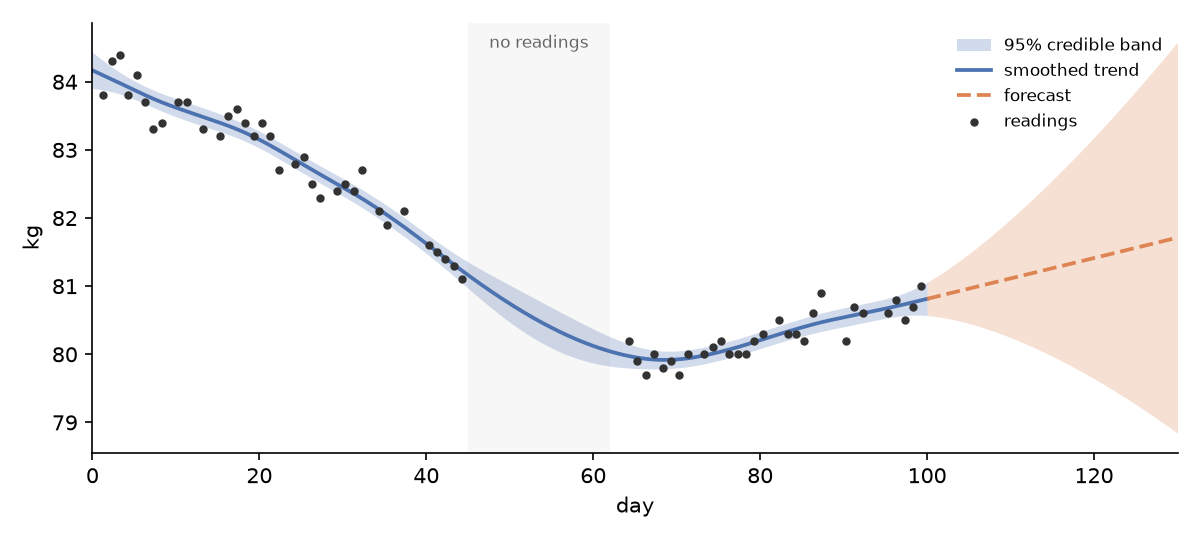
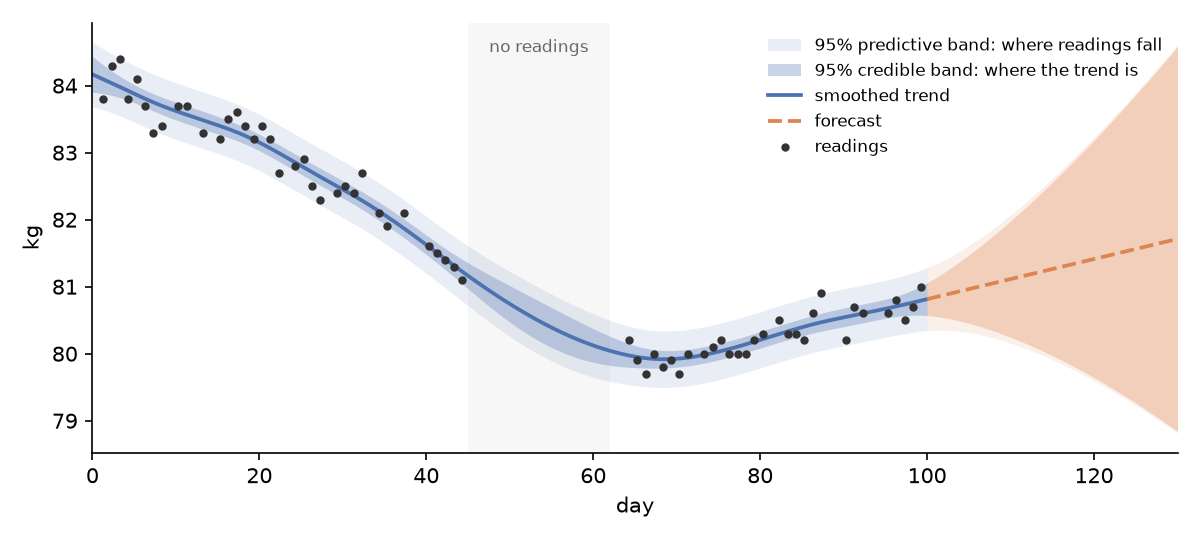
Show the predictive band beside the credible band
The README figure draws the 95% predictive band, where readings fall, as a
wide light band around the darker credible band, for the trend and the
forecast. The README usage and Getting started list predictiveBand() next
to credibleBand().

diff --git a/tool/figure/figure.dart b/tool/figure/figure.dart
@@ -1,5 +1,5 @@
 // Writes the data behind doc/images/trend.png: noisy readings with a gap, the
-// smoothed trend with its credible band, and a forecast.
+// smoothed trend with its credible and predictive bands, and a forecast.
 //
 //   dart run tool/figure/figure.dart > /tmp/trend.csv
 //   uv run --with matplotlib tool/figure/plot.py /tmp/trend.csv doc/images/trend.png
@@ -36,24 +36,27 @@ void main() {
   final grid = [for (var t = 0.0; t <= 100; t += 0.25) t];
   final posterior = fitted.model.smooth(data, grid: grid);
   final band = posterior.credibleBand();
+  final spread = posterior.predictiveBand();
   final horizon = [for (var t = 100.0; t <= 130; t += 0.25) t];
   final ahead = fitted.model.forecast(data, horizon);
   final aheadBand = ahead.credibleBand();
+  final aheadSpread = ahead.predictiveBand();
 
-  print('kind,time,value,lo,hi');
+  print('kind,time,value,lo,hi,plo,phi');
   for (final o in data) {
-    print('reading,${o.time},${o.value},,');
+    print('reading,${o.time},${o.value},,,,');
   }
   for (var i = 0; i < grid.length; i++) {
     print(
       'trend,${grid[i]},${posterior.mean[i]},'
-      '${band.lo[i]},${band.hi[i]}',
+      '${band.lo[i]},${band.hi[i]},${spread.lo[i]},${spread.hi[i]}',
     );
   }
   for (var i = 0; i < horizon.length; i++) {
     print(
       'forecast,${horizon[i]},${ahead.mean[i]},'
-      '${aheadBand.lo[i]},${aheadBand.hi[i]}',
+      '${aheadBand.lo[i]},${aheadBand.hi[i]},'
+      '${aheadSpread.lo[i]},${aheadSpread.hi[i]}',
     );
   }
 }

diff --git a/tool/figure/plot.py b/tool/figure/plot.py
@@ -16,18 +16,23 @@ def series(kind):
     v = [float(r["value"]) for r in picked]
     lo = [float(r["lo"]) for r in picked if r["lo"]]
     hi = [float(r["hi"]) for r in picked if r["hi"]]
-    return t, v, lo, hi
+    plo = [float(r["plo"]) for r in picked if r["plo"]]
+    phi = [float(r["phi"]) for r in picked if r["phi"]]
+    return t, v, lo, hi, plo, phi
 
 
 fig, ax = plt.subplots(figsize=(8, 3.6), dpi=150)
-t, v, lo, hi = series("trend")
-ax.fill_between(t, lo, hi, color="#4c72b0", alpha=0.25, linewidth=0,
-                label="95% credible band")
+t, v, lo, hi, plo, phi = series("trend")
+ax.fill_between(t, plo, phi, color="#4c72b0", alpha=0.12, linewidth=0,
+                label="95% predictive band: where readings fall")
+ax.fill_between(t, lo, hi, color="#4c72b0", alpha=0.3, linewidth=0,
+                label="95% credible band: where the trend is")
 ax.plot(t, v, color="#4c72b0", linewidth=1.8, label="smoothed trend")
-t, v, lo, hi = series("forecast")
-ax.fill_between(t, lo, hi, color="#dd8452", alpha=0.25, linewidth=0)
+t, v, lo, hi, plo, phi = series("forecast")
+ax.fill_between(t, plo, phi, color="#dd8452", alpha=0.12, linewidth=0)
+ax.fill_between(t, lo, hi, color="#dd8452", alpha=0.3, linewidth=0)
 ax.plot(t, v, color="#dd8452", linewidth=1.8, linestyle="--", label="forecast")
-t, v, _, _ = series("reading")
+t, v, *_ = series("reading")
 ax.scatter(t, v, s=9, color="#333333", zorder=3, label="readings")
 ax.axvspan(45, 62, color="#999999", alpha=0.08, linewidth=0)
 ax.text(53.5, max(v) + 0.1, "no readings", ha="center", fontsize=8, color="#666666")

diff --git a/README.md b/README.md
@@ -8,8 +8,9 @@
 </p>
 
 **state_space** estimates smoothed trends from noisy readings taken at
-irregular times. It returns the trend, its slope and a credible band, across
-gaps and into the future. It was built for the body-weight diary
+irregular times. It returns the trend, its slope, and bands for where the
+trend is and where readings fall, across gaps and into the future. It was
+built for the body-weight diary
 [trale](https://github.com/QuantumPhysique/trale), where days are skipped and
 readings are sporadic, but works on any time series. Written in pure Dart, it
 runs on every Flutter platform.
@@ -20,7 +21,7 @@ maximising the marginal likelihood.
 
 
 
-![Readings with a gap, the smoothed trend with its 95% credible band, and a forecast](https://raw.githubusercontent.com/QuantumPhysique/state_space/main/doc/images/trend.png)
+![Readings with a gap, the smoothed trend with its 95% credible and predictive bands, and a forecast](https://raw.githubusercontent.com/QuantumPhysique/state_space/main/doc/images/trend.png)
 ## Install
 
 ```yaml
@@ -54,7 +55,8 @@ final trend = fitted.model.smooth(data, grid: everyDay);
 
 trend.mean;                      // the smoothed curve
 trend.trendSlope;                // its rate of change
-trend.credibleBand();            // lower and upper band, as two arrays
+trend.credibleBand();            // where the trend is, as lower and upper arrays
+trend.predictiveBand();          // where readings fall: about 95% of them inside
 
 final ahead = [for (var d = 31; d <= 60; d++) d.toDouble()];
 fitted.model.forecast(data, ahead);

diff --git a/doc/getting-started.md b/doc/getting-started.md
@@ -82,12 +82,12 @@ There are two kinds of interval:
 trend.credibleInterval(i);    // where the underlying trend is
 trend.predictiveInterval(i);  // where the next reading would fall
 trend.credibleBand();         // the first at every output time, as lo and hi arrays
+trend.predictiveBand();       // the second at every output time
 ```
 
-Draw the credible band around the curve. It is narrow, and most individual
-readings fall outside it, because it describes the trend rather than the next
-reading. About 95 % of the observations should sit inside the 95 % predictive
-band.
+The credible band is narrow, and most individual readings fall outside it,
+because it describes the trend rather than the next reading. About 95 % of the
+observations should sit inside the 95 % predictive band.
 
 ## Dates
 
